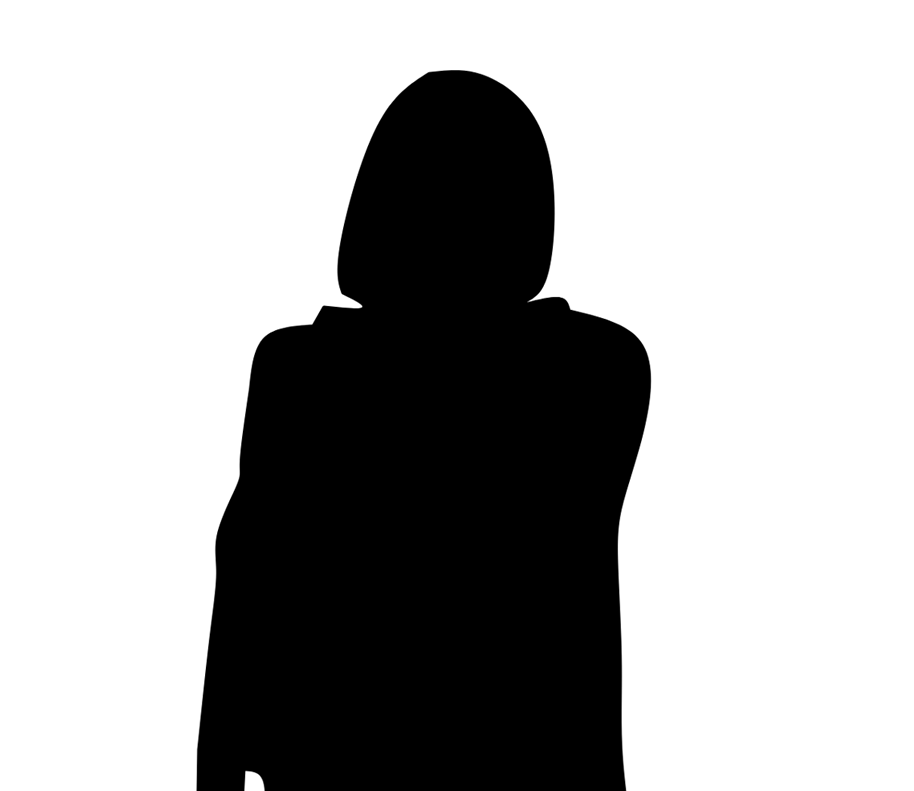
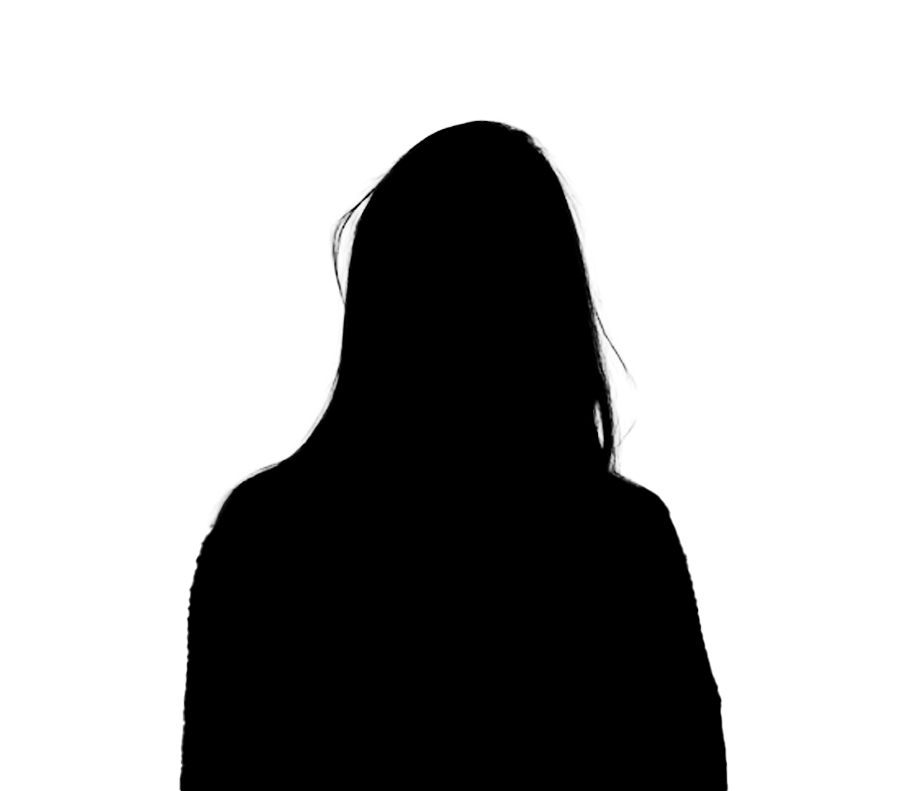
u

Changed region(s): [[0.2451, 0.091, 0.7965, 1.0], [0.1838, 0.6372, 0.2451, 1.0], [0.2451, 0.9709, 0.3063, 1.0]]

diff --git a/final/app.js b/final/app.js
@@ -42,7 +42,7 @@ const entrantChat = document.querySelector(`.pleading`);
 
 const entrantTotalStat = document.querySelector(`.total-number`)
 const entrantAcceptedStat = document.querySelector(`.accepted-number`);
-const entrantDeclinedStat = document.querySelector(`.accepted-number`);
+const entrantDeclinedStat = document.querySelector(`.declined-number`);
 const errorStat = document.querySelector(`.error-number`);
 // AUDIO
 const flipPageSFX = new Audio('assets/sounds/pageflip-1.mp3');
@@ -56,6 +56,8 @@ const footstep2SFX = new Audio('assets/sounds/footstep2.mp3');
 const footstep3SFX = new Audio('assets/sounds/footstep3.mp3');
 const newsSFX = new Audio('assets/sounds/news.mp3');
 
+const passportProfileImg = document.querySelectorAll('.profile-img');
+const entrantImg = document.querySelector('.person');
 
 const russianLastNames = ['Iranov', 'Petrov', 'Sidorov', 'Smirnoff', 'Volkov', 'Federov', 'Popov', 'Semenov', 'Mikhailov', 'Egorov', 'Lenkov', 'Vasiliev', 'Nikolaev', 'Morozov', 'Stepanov'];
 
@@ -68,9 +70,11 @@ const russianMaleFirstNames = ['Aleksandr', 'Boris', 'Alexei', 'Daniiil', 'Leoni
 const people = [];
 const thankArray = [`Thank you`];
 const pleadArray = [`Please, I will die if they send me in war.`, `I can't be conscripted I beg of you.`, `I refuse... to take part in a meaningless war`, 'Please let me in...I have a family to live for.', `I have a daughter at home. She can't lose me.`, `What would you do if you were in my shoes...`, `If they see me come back they'll jail me for good...`]
+
+const femalePleadArray = [`My husband is abroad...`]
 const durationArray = [`1 day`, `2 days`, `3 days`, `4 days`, `5 days`, `6 days`, `7 days`, `8 days`, `9 days`, `10 days`, `11 days`, `12 days`, `12 days`, `13 days`, `14 days`, `15 days`, `16 days`, `17 days`, `18 days`, `19 days`, `20 days`, `21 days`, `22 days`, `23 days`, `24 days`, `25 days`, `26 days`, `27 days`, `28 days`, `about a month`, `2 months`, `3 months`];
 
-const backgroundArray = [[`assets/images/profiles/man.png`],[`assets/images/profiles/woman.png`]   ]
+const backgroundArray = [[`man.png`,`man2.png`,`man3.png`],[`woman.png`,`woman2.png`]]
 
 
 let purposeDialogue = ``;
@@ -182,10 +186,41 @@ function showInput(input) {
         setTimeout(() => {
             receivePassport();
         }, 2000);
-       
-    }
+    } 
 }
+window.addEventListener("keypress", function(event) {
+    // If the user presses the "Enter" key on the keyboard
+    if (event.key === "n" && waitingNext) {
+      // Cancel the default action, if needed
+      event.preventDefault();
+      callNext();
+  
+        createPerson();
+        setTimeout(() => {
+            receivePassport();
+        }, 2000);
+      // Trigger the button element with a click
 
+    } else if (event.key ===`Enter` &&  entrantPleading && !passportOpened){
+        entrantChatReset();
+        entrantChat.innerHTML = `You might as well kill me.`;
+        
+        setTimeout(() => {
+            returnPassport();
+        }, 1000);
+
+        setTimeout(() => {
+            walkAway();
+        }, 5000);
+
+
+        declinedRussians++;
+        updateStats();
+
+        entrantPleading = false;
+        waitingNext = true;
+    }
+  });
 
 function capitalizeFirstLetter(string) {
     return string.charAt(0).toUpperCase() + string.slice(1);
@@ -337,8 +372,6 @@ closeDocsBtn.addEventListener(`click`, () => {
     else if (systemAnswer === `decline` && finalStamp === `accept`) {
         alert(`That was a mistake. Their document had an ${errorName}`);
         
-
-
         if (entrantPleading){
             entrantChatReset();
             entrantChat.innerHTML = `I owe you my life.`;
@@ -405,6 +438,7 @@ function entrantChatReset() {
 }
 
 function updateStats(){
+
     totalRussians ++;
     entrantTotalStat.innerHTML = `Total: ${totalRussians}`;
     entrantAcceptedStat.innerHTML = `Accepted: ${acceptedRussians}`;
@@ -553,14 +587,35 @@ instructionsBtn.addEventListener('click',()=>{
 // constructor function 
 function PersonBlueprint() {
 
-    this.randomizeGender = function () {
+    this.randomizeSex = function () {
         const genderChance = Math.floor(Math.random() * 10);
         if (genderChance >= 2) {
             this.gender = 'Male';
-            // return 'Male';
+            const randomImgIndex = Math.floor(Math.random() * backgroundArray[0].length);
+            entrantImg.style.background = `url(./assets/images/profiles/${backgroundArray[0][randomImgIndex]}) center center / contain no-repeat`;
+
+        
+           
+            for (let i = 0; i < passportProfileImg.length; i++) {
+                passportProfileImg[i].style.background = `url(./assets/images/profiles/${backgroundArray[0][randomImgIndex]}) center center / cover no-repeat`;
+            }
+           
+            
         } else {
+
             this.gender = 'Female';
-            // return 'Female';
+            const randomImgIndex = Math.floor(Math.random() * backgroundArray[1].length);
+            entrantImg.style.background = `url(./assets/images/profiles/${backgroundArray[1][randomImgIndex]}) center center / contain no-repeat`;
+
+            
+            for (let i = 0; i < passportProfileImg.length; i++) {
+                passportProfileImg[i].style.background = `url(./assets/images/profiles/${backgroundArray[1][randomImgIndex]}) center center / cover no-repeat`;
+            }
+        }
+    }
+    this.assignImg = function(){
+        if(this.gender === `Male`){
+
         }
     }
 
@@ -879,7 +934,7 @@ function createPerson() {
     waitingNext = false;
 
     const person = new PersonBlueprint()
-    person.randomizeGender();
+    person.randomizeSex();
     person.randomizeName();
     person.randomizeExpDate();
     person.randomizeBirthDate();

diff --git a/final/next.html b/final/next.html
@@ -22,8 +22,7 @@
                 <div class="glass"></div>
                 <div class="tv">
                     <div class="tv-screen">
-                        <div class="tv-subtitles">Rise in demand for flights out of Moscow after Putin announces
-                            ‘partial mobilization’</div>
+                        <div class="tv-subtitles">700 000 Russians fled since Putin's partial mobilization</div>
                     </div>
                 </div>
 
@@ -52,8 +51,8 @@
                                     <!-- <li>Family Reasons</li> -->
                                 </ul>
 
-                                <h4>In case of non compliance</h4>
-                                <p>Say "I'm sorry" </p>
+                                <h4>If entrant insists on staying</h4>
+                                <p>Say "Please leave before I call security." </p>
 
                                 <h4>Possible Discrepancies</h4>
                                 <p>Invalid Name</p>
@@ -70,7 +69,7 @@
                                 <h3>Russians</h3>
                                 <p class="total-number">Total: 0</p>
                                 <p class="accepted-number">Accepted: 0</p>
-                                <p class="denied-number">Denied: 0</p>
+                                <p class="declined-number">Denied: 0</p>
                                 <p class="error-number">Errors: 0</p>
 
                             </div>

diff --git a/final/style.css b/final/style.css
@@ -137,7 +137,7 @@ p, ul, li, span{
     left: 25%;
     width: 30rem;
     height: 100%;
-    background: url(./assets/images/profiles/Man.png) center center / contain no-repeat;
+    background: url(./assets/images/profiles/man.png) center center / contain no-repeat;
     /* background-color: red; */   
     /* transition: transform 0.5s ease-in-out; */
     z-index: 1;
@@ -537,7 +537,6 @@ p, ul, li, span{
 }
 
 .profile-img{
-    
     background:url(assets/images/profiles/man.png) center center /cover no-repeat;
     background-color: rgb(233, 233, 233);
     width: 7rem;
